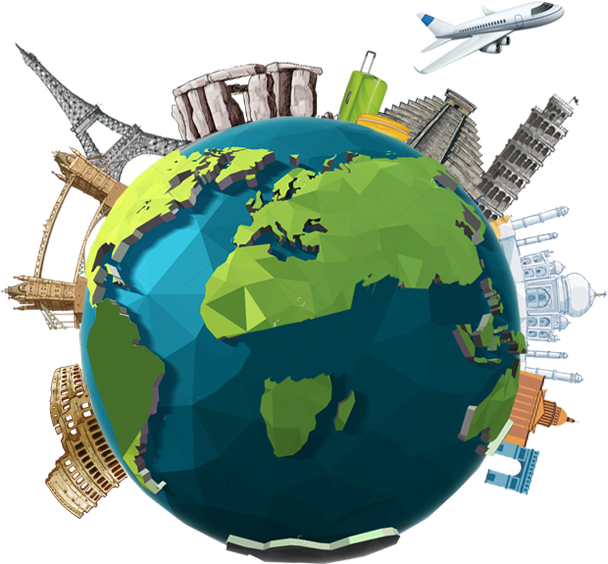
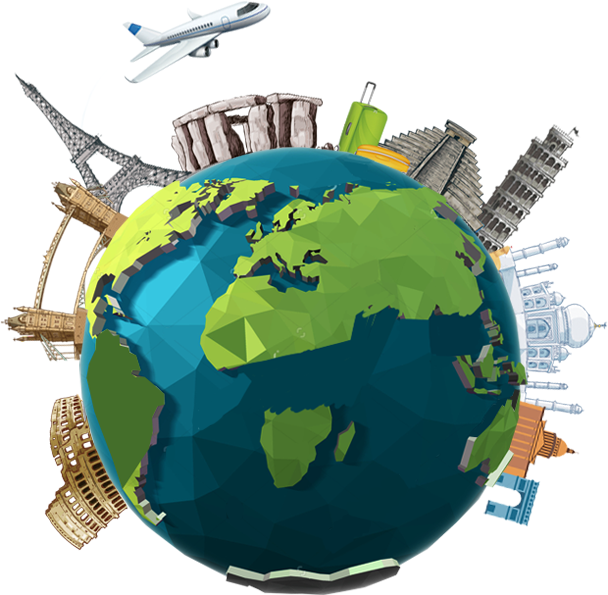
改首页
改首页

diff --git a/app/scss/main.scss b/app/scss/main.scss
@@ -167,16 +167,25 @@ body {
 }
 
 #cover-logo {
-    top: 40px;
-    left: 37px;
+    top: 22px;
+    left: 32px;
     $logo: '../images/logo.png';
     width: image-width($logo);
     height: image-height($logo);
     background-image: url($logo);
 }
 
+#cover-tag {
+    bottom: 12px;
+    left: 431px;
+    $tag: '../images/tag.png';
+    width: image-width($tag);
+    height: image-height($tag);
+    background-image: url($tag);
+}
+
 #earth {
-    top: 128px;
+    top: 76px;
     left: 22px;
     $earth: '../images/earth.png';
     width: image-width($earth);
@@ -185,7 +194,7 @@ body {
 }
 
 #slogan {
-    top: 295px;
+    top: 266px;
     left: 58px;
     $slogan: '../images/slogan.png';
     width: image-width($slogan);
@@ -194,7 +203,7 @@ body {
 }
 
 #cover-car {
-    top: 496px;
+    top: 480px;
     left: 52px;
     $car: '../images/car.png';
     width: image-width($car);
@@ -203,7 +212,7 @@ body {
 }
 
 #start-btn {
-    top: 900px;
+    bottom: 58px;
     left: 163px;
     $start-btn: '../images/start-btn.png';
     width: image-width($start-btn);
@@ -212,7 +221,7 @@ body {
 }
 
 #rule-btn {
-    top: 43px;
+    top: 71px;
     left: 367px;
     $rule-btn: '../images/rule-btn.png';
     width: image-width($rule-btn);
@@ -445,6 +454,39 @@ $btns-sprite-dimensions: true;
     height: image-height($share-content);
     background-image: url($share-content);
 }
+
+// misc sprite 设置
+$misc-layout:smart;
+$misc-spacing:10px;
+$misc-sprite-dimensions: true;
+@import "misc/*.png";
+@include  all-misc-sprites;
+
+// music=======================================================================
+#music-control {
+    position: absolute;
+    top: 0;
+    right: 0;
+
+    width: 58px;
+    height: 58px;
+    margin: 24px;
+    visibility: hidden;
+}
+
+#music-control-main {
+    position: absolute;
+    @extend .misc-music-bg;
+}
+
+.music-control-icon {
+    position: absolute;
+    @extend .misc-music-icon;
+    top: 50%;
+    left: 50%;
+    @include transform(translate3d(-50%, -50%, 0));
+}
+// music=======================================================================
 
 #cover, #rule, #game, #dice-container, #yd, #mnh, #hnw, #bl, #blg, #lm, #right-content, #wrong-content, #share {
     display: none;

diff --git a/app/css/main.css b/app/css/main.css
@@ -386,23 +386,31 @@ body {
 }
 
 #cover-logo {
-  top: 40px;
-  left: 37px;
-  width: 235px;
-  height: 89px;
+  top: 22px;
+  left: 32px;
+  width: 571px;
+  height: 41px;
   background-image: url("../images/logo.png");
 }
 
+#cover-tag {
+  bottom: 12px;
+  left: 431px;
+  width: 183px;
+  height: 70px;
+  background-image: url("../images/tag.png");
+}
+
 #earth {
-  top: 128px;
+  top: 76px;
   left: 22px;
   width: 608px;
-  height: 564px;
+  height: 595px;
   background-image: url("../images/earth.png");
 }
 
 #slogan {
-  top: 295px;
+  top: 266px;
   left: 58px;
   width: 541px;
   height: 237px;
@@ -410,7 +418,7 @@ body {
 }
 
 #cover-car {
-  top: 496px;
+  top: 480px;
   left: 52px;
   width: 557px;
   height: 404px;
@@ -418,7 +426,7 @@ body {
 }
 
 #start-btn {
-  top: 900px;
+  bottom: 58px;
   left: 163px;
   width: 312px;
   height: 99px;
@@ -426,7 +434,7 @@ body {
 }
 
 #rule-btn {
-  top: 43px;
+  top: 71px;
   left: 367px;
   width: 232px;
   height: 74px;
@@ -725,6 +733,47 @@ body {
   width: 490px;
   height: 218px;
   background-image: url("../images/share-content.png");
+}
+
+.misc-sprite, .misc-music-bg, #music-control-main, .misc-music-icon, .music-control-icon {
+  background-image: url('../images/misc-s84e93b9506.png');
+  background-repeat: no-repeat;
+}
+
+.misc-music-bg, #music-control-main {
+  background-position: 0 -31px;
+  height: 58px;
+  width: 58px;
+}
+
+.misc-music-icon, .music-control-icon {
+  background-position: 0 0;
+  height: 31px;
+  width: 19px;
+}
+
+#music-control {
+  position: absolute;
+  top: 0;
+  right: 0;
+  width: 58px;
+  height: 58px;
+  margin: 24px;
+  visibility: hidden;
+}
+
+#music-control-main {
+  position: absolute;
+}
+
+.music-control-icon {
+  position: absolute;
+  top: 50%;
+  left: 50%;
+  -moz-transform: translate3d(-50%, -50%, 0);
+  -ms-transform: translate3d(-50%, -50%, 0);
+  -webkit-transform: translate3d(-50%, -50%, 0);
+  transform: translate3d(-50%, -50%, 0);
 }
 
 #cover, #rule, #game, #dice-container, #yd, #mnh, #hnw, #bl, #blg, #lm, #right-content, #wrong-content, #share {

diff --git a/app/index.html b/app/index.html
@@ -34,6 +34,7 @@
         <div class="container" id="cover-bg"></div>
         <div class="scroll-container" id="cover">
             <div class="ab-element" id="cover-logo"></div>
+            <div class="ab-element" id="cover-tag"></div>
             <div class="ab-element" id="earth"></div>
             <div class="ab-element" id="slogan"></div>
             <div class="ab-element" id="cover-car"></div>
